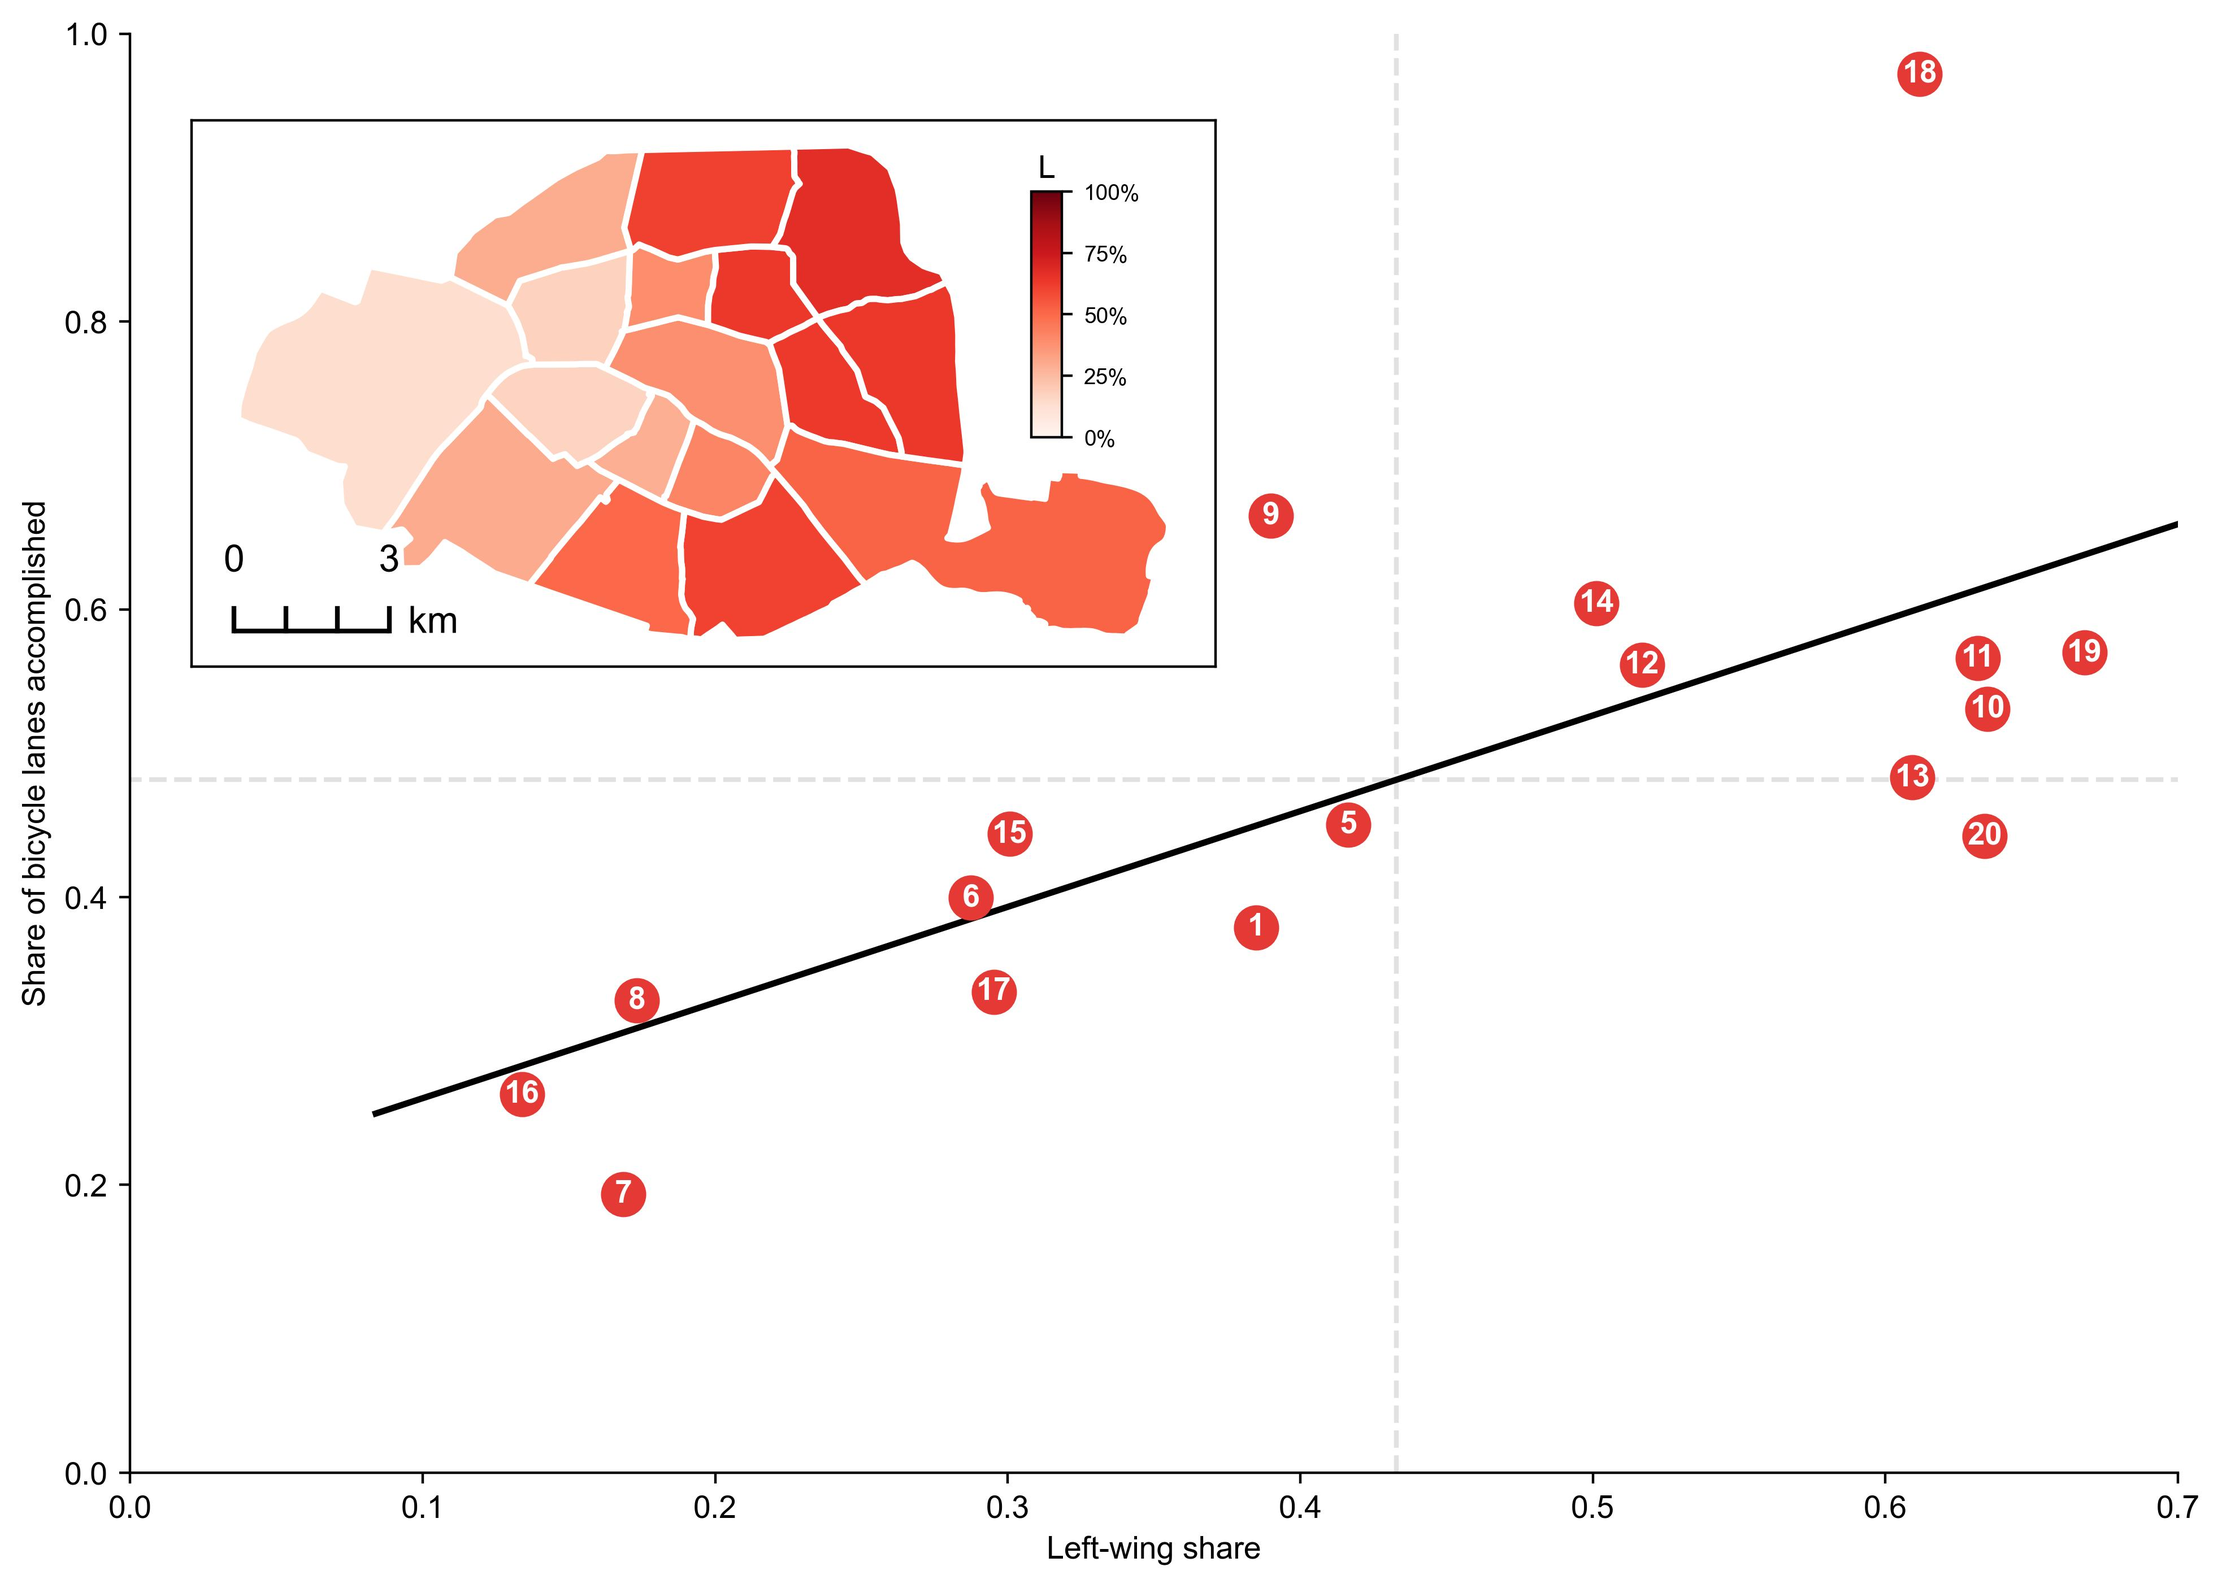
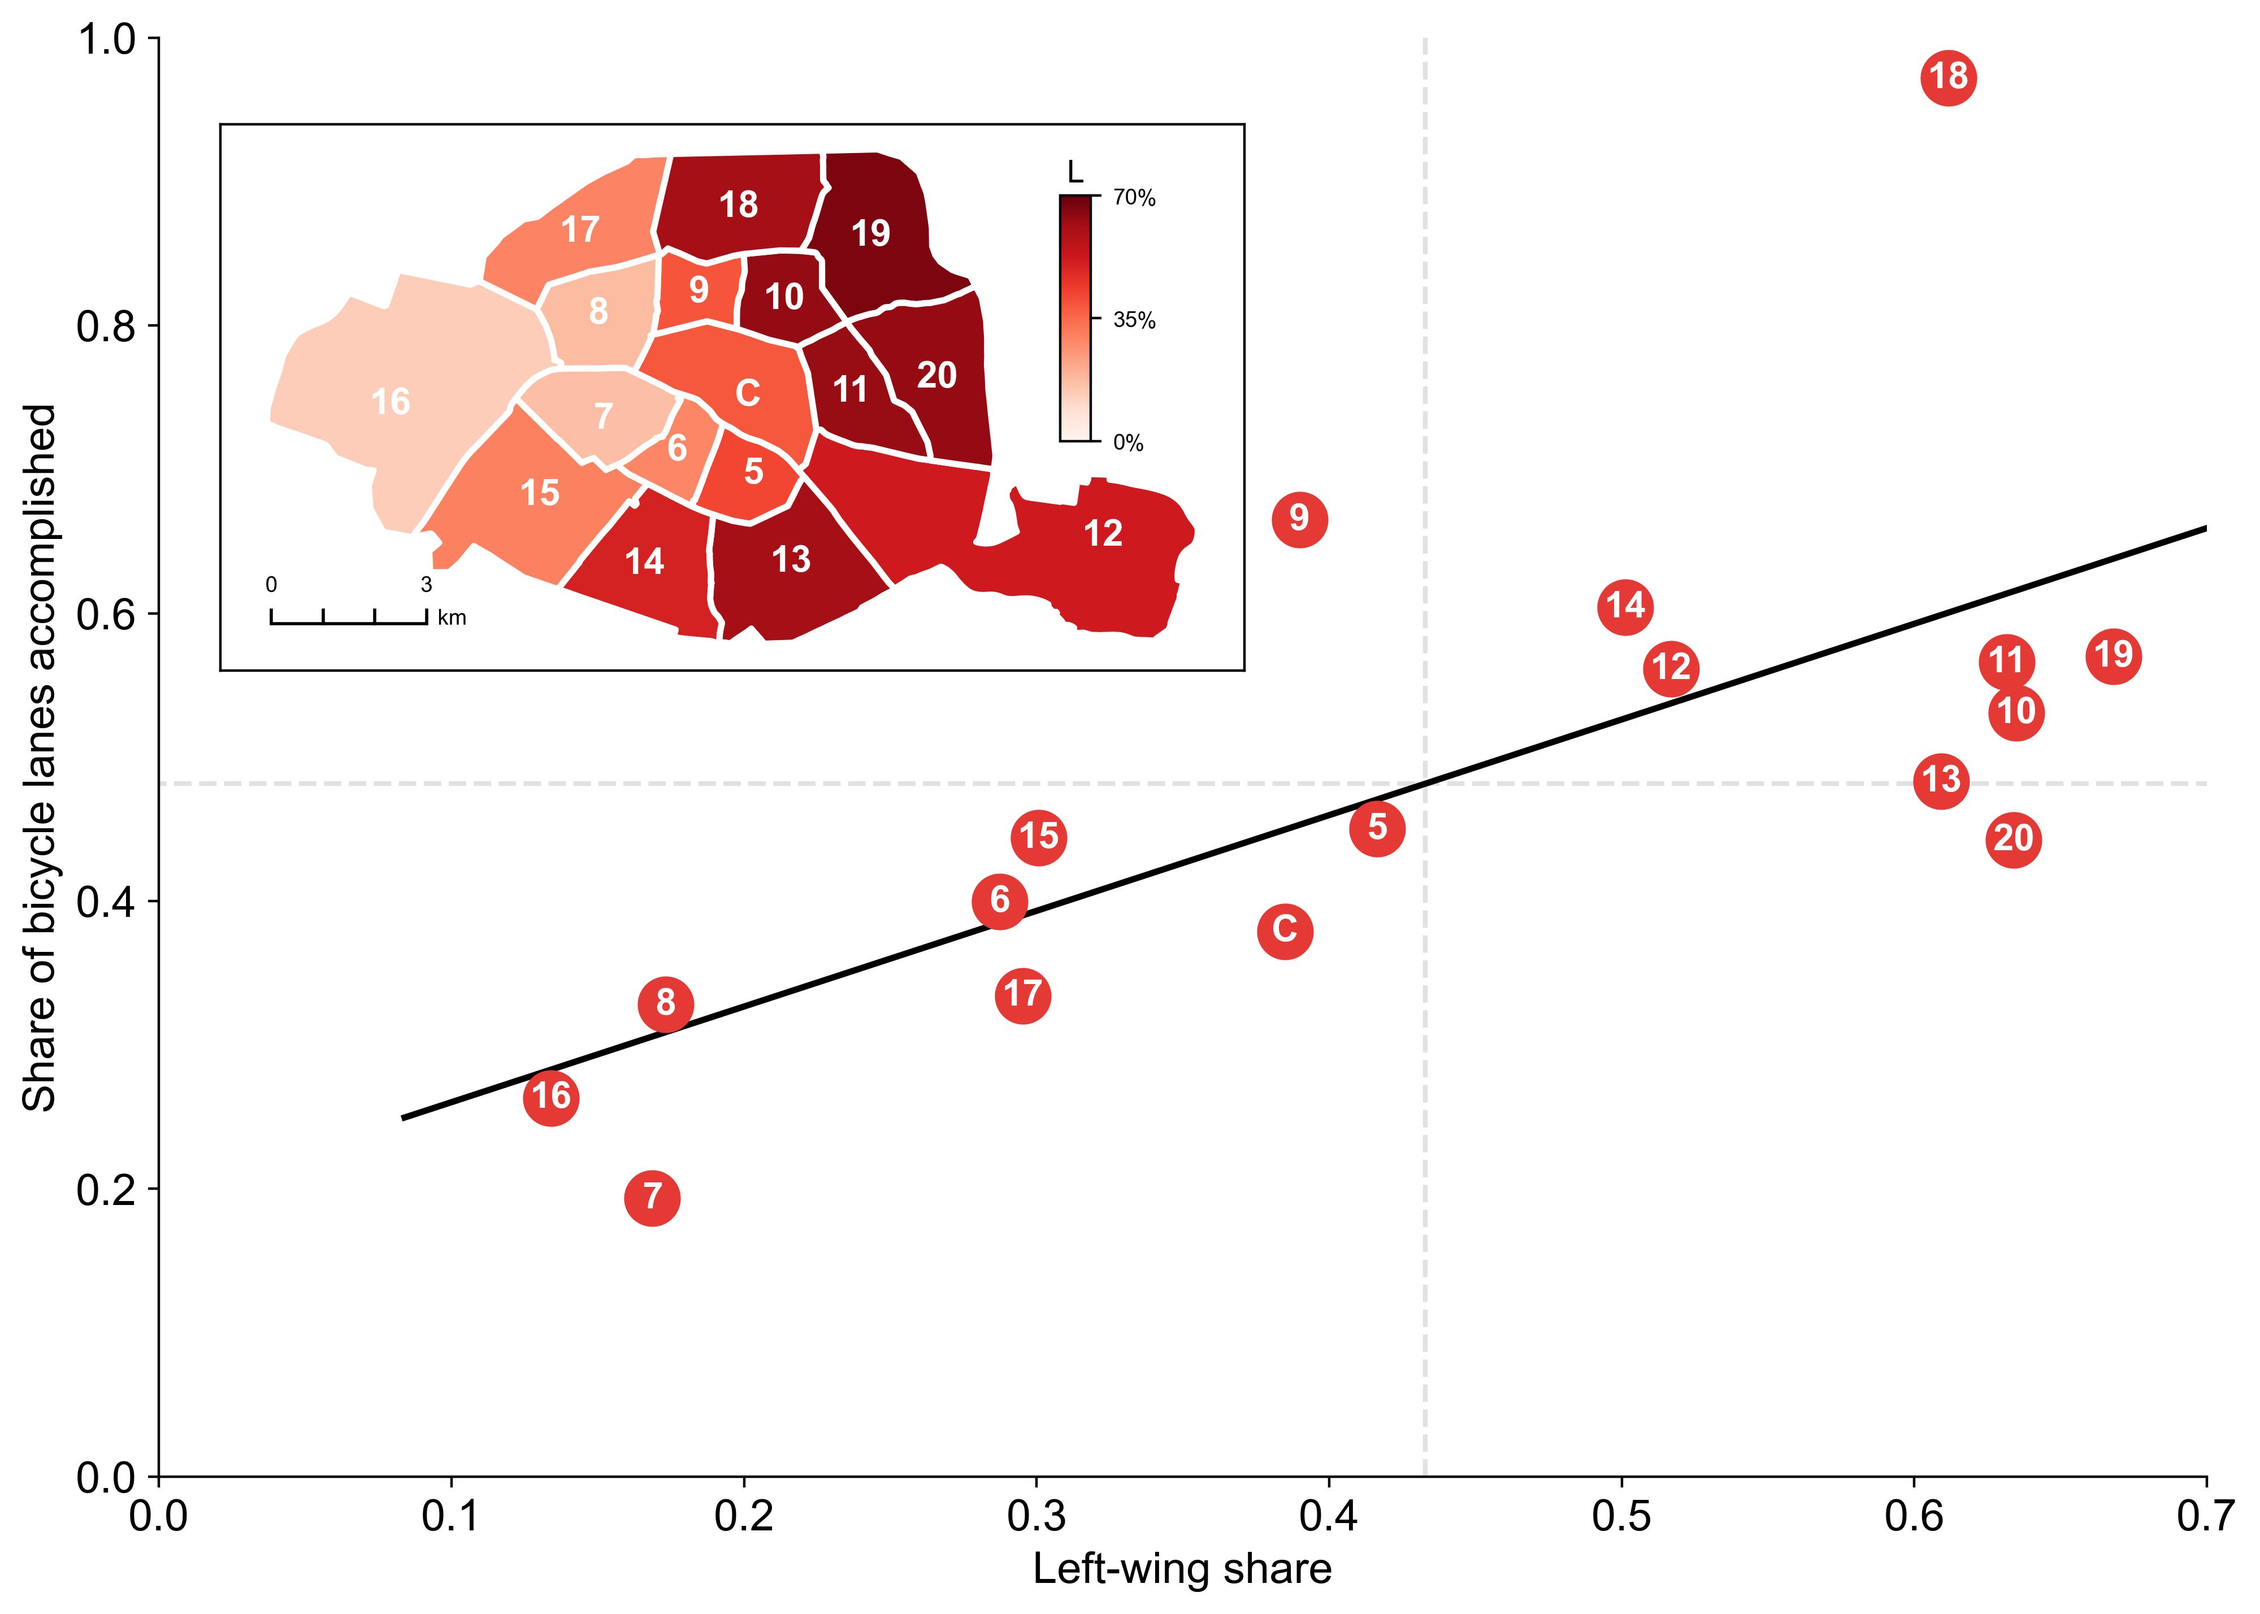
Improve plots readability and completeness

diff --git a/scripts/F_plot_factor_delays.py b/scripts/F_plot_factor_delays.py
@@ -14,10 +14,13 @@ import statsmodels.api as sm
 
 FOLDEROOTS = "./data/processed/"
 FOLDERPLOT = "./plots/"
+INSET_NUMBER_SIZE = 7
+MAIN_NUMBER_SIZE = 12
 
 
-# TODO add number of arrondissement inside the choropleth map
 # TODO make scatter points look better
+# TODO make number look cooler
+# TODO Move 16, C, and 12 to better positions
 def main():
     with open("./scripts/F_plot_factor_delays.json", "r") as f:
         plot_params = json.load(f)
@@ -41,18 +44,85 @@ def main():
             color=plot_params["color"][idx],
             zorder=2,
         )
-        for i in range(len(gdf_arr)):
-            ax.annotate(
-                gdf_arr["NUM_ARROND"].values[i],
-                (
-                    gdf_arr[column].values[i],
-                    gdf_arr["length_accomplished_share"].values[i],
-                ),
-                fontweight="bold",
-                color="white",
-                ha="center",
-                va="center",
-            )
+        # Add arrondissement number for each dot
+        if column == "Right_wing_share":
+            for i in range(len(gdf_arr)):
+                if gdf_arr["NUM_ARROND"].values[i] == 1:
+                    ax.annotate(
+                        "C",
+                        (
+                            gdf_arr[column].values[i],
+                            gdf_arr["length_accomplished_share"].values[i],
+                        ),
+                        fontsize=MAIN_NUMBER_SIZE,
+                        fontweight=900,
+                        color="white",
+                        ha="center",
+                        va="center",
+                    )
+                elif gdf_arr["NUM_ARROND"].values[i] == 11:
+                    ax.annotate(
+                        gdf_arr["NUM_ARROND"].values[i],
+                        (
+                            gdf_arr[column].values[i],
+                            gdf_arr["length_accomplished_share"].values[i],
+                        ),
+                        textcoords="offset points",
+                        xytext=(22, -12),
+                        arrowprops=dict(arrowstyle="-"),
+                        fontweight=900,
+                        fontsize=MAIN_NUMBER_SIZE,
+                        color="black",
+                        ha="center",
+                        va="center",
+                    )
+                elif gdf_arr["NUM_ARROND"].values[i] == 19:
+                    ax.annotate(
+                        gdf_arr["NUM_ARROND"].values[i],
+                        (
+                            gdf_arr[column].values[i],
+                            gdf_arr["length_accomplished_share"].values[i],
+                        ),
+                        textcoords="offset points",
+                        xytext=(-22, 12),
+                        arrowprops=dict(arrowstyle="-"),
+                        fontweight=900,
+                        fontsize=MAIN_NUMBER_SIZE,
+                        color="black",
+                        ha="center",
+                        va="center",
+                    )
+                else:
+                    ax.annotate(
+                        gdf_arr["NUM_ARROND"].values[i],
+                        (
+                            gdf_arr[column].values[i],
+                            gdf_arr["length_accomplished_share"].values[i],
+                        ),
+                        fontweight=900,
+                        fontsize=MAIN_NUMBER_SIZE,
+                        color="white",
+                        ha="center",
+                        va="center",
+                    )
+        else:
+            for i in range(len(gdf_arr)):
+                if gdf_arr["NUM_ARROND"].values[i] == 1:
+                    text = "C"
+                else:
+                    text = gdf_arr["NUM_ARROND"].values[i]
+                ax.annotate(
+                    text,
+                    (
+                        gdf_arr[column].values[i],
+                        gdf_arr["length_accomplished_share"].values[i],
+                    ),
+                    fontweight=900,
+                    fontsize=MAIN_NUMBER_SIZE,
+                    color="white",
+                    ha="center",
+                    va="center",
+                )
         # Add expected value lines
         ax.plot(
             [-1, 99999],
@@ -89,13 +159,14 @@ def main():
         # Add as an inset the choropleth map of the factor
         cax = ax.inset_axes([plot_params["inset_x"][idx], 0.5, 0.5, 0.5])
         gcax = cax.inset_axes([0.82, 0.42, 0.03, 0.45])
+        vmax = plot_params["xlim"][idx][-1]
         kwargs = {
             "vmin": 0,
-            "vmax": 1,
+            "vmax": vmax,
             "legend_kwds": {
                 "cax": gcax,
                 "format": mtick.PercentFormatter(1),
-                "ticks": [0.0, 0.25, 0.5, 0.75, 1.0],
+                "ticks": [0, vmax / 2, vmax],
             },
         }
         cax.text(
@@ -125,10 +196,31 @@ def main():
                 "unit": "km",
                 "major_mult": 1,
                 "major_div": 3,
+                "tickwidth": 1,
+                "height": 0.06,
             },
-            labels={"style": "first_last"},
+            labels={"style": "first_last", "fontsize": INSET_NUMBER_SIZE, "sep": 1},
+            units={"fontsize": INSET_NUMBER_SIZE, "fontweight": "normal"},
         )
-        gcax.tick_params(labelsize=7)
+        gcax.tick_params(labelsize=INSET_NUMBER_SIZE)
+        # Add arrondissement number
+        rep_point = gdf_arr.geometry.representative_point()
+        arrs = gdf_arr["NUM_ARROND"].values
+        for i in range(len(gdf_arr)):
+            if arrs[i] == 1:
+                text = "C"
+            else:
+                text = arrs[i]
+            cax.text(
+                x=rep_point[i].xy[0][0],
+                y=rep_point[i].xy[1][0],
+                s=text,
+                color="white",
+                fontweight="bold",
+                ha="center",
+                va="center",
+                fontsize=MAIN_NUMBER_SIZE,
+            )
         cax.xaxis.set_major_locator(mtick.NullLocator())
         cax.yaxis.set_major_locator(mtick.NullLocator())
         fig.savefig(FOLDERPLOT + f"scatterplot_{column}.jpeg")

diff --git a/scripts/E_plot_bikeplan_choropleth.py b/scripts/E_plot_bikeplan_choropleth.py
@@ -12,9 +12,13 @@ FOLDER_ARR = "./data/processed/"
 FOLDER_BIKE = "./data/raw/"
 FOLDERPLOT = "./plots/"
 DPI = 400
+NUMBER_SIZE = 13
 
 
-# TODO add number of arrondissement inside the choropleth map
+# TODO move scale bar up and right
+# TODO make number look cooler
+# TODO rename the % acc
+# TODO Move 16, C, and 12 to better positions
 def main():
     gdf_arr = gpd.read_file(FOLDER_ARR + "paris_vote_arr_2020_bikenet.gpkg")
     fig, ax = plt.subplots(figsize=[11.69, 8.27], layout="tight")
@@ -28,15 +32,7 @@ def main():
             "ticks": [0.0, 0.25, 0.5, 0.75, 1.0],
         },
     }
-    ax.text(
-        x=0.835,
-        y=0.91,
-        transform=ax.transAxes,
-        s="$\%$ acc",
-        fontsize=20,
-        ha="center",
-        va="center",
-    )
+    # Plot results
     gdf_arr.plot(
         ax=ax,
         column="length_accomplished_share",
@@ -46,14 +42,43 @@ def main():
         linewidth=5,
         **kwargs,
     )
+    # Label colormap
+    ax.text(
+        x=0.835,
+        y=0.91,
+        transform=ax.transAxes,
+        s="$\%$ acc",
+        fontsize=20,
+        ha="center",
+        va="center",
+    )
+    # Add scale bar
     scale_bar(
         ax,
         location="lower left",
         style="ticks",
         bar={"projection": gdf_arr.crs, "unit": "km", "major_mult": 1, "major_div": 3},
-        labels={"style": "first_last"},
+        labels={"style": "first_last", "fontsize": NUMBER_SIZE},
     )
-    cax.tick_params(labelsize=13)
+    cax.tick_params(labelsize=NUMBER_SIZE)
+    rep_point = gdf_arr.geometry.representative_point()
+    arrs = gdf_arr["NUM_ARROND"].values
+    # Add arrondissement number
+    for i in range(len(gdf_arr)):
+        if arrs[i] == 1:
+            text = "C"
+        else:
+            text = arrs[i]
+        ax.text(
+            x=rep_point[i].xy[0][0],
+            y=rep_point[i].xy[1][0],
+            s=text,
+            color="white",
+            fontweight="bold",
+            ha="center",
+            va="center",
+            fontsize=20,
+        )
     ax.axis("off")
     fig.savefig(FOLDERPLOT + "map_bikeplan_choropleth.jpeg", dpi=DPI)
 

diff --git a/scripts/D_plot_bikeplan_roads.py b/scripts/D_plot_bikeplan_roads.py
@@ -27,6 +27,9 @@ STATE_COLOR = {
 DPI = 250
 
 
+# TODO add legend
+# TODO find better colors coherent with viridis
+# TODO move scale bar up and right
 def main():
     gdf_arr = gpd.read_file(FOLDER_ARR + "paris_vote_arr_2020_bikenet.gpkg")
     # Plot bicycle plan progress over arrondissement
